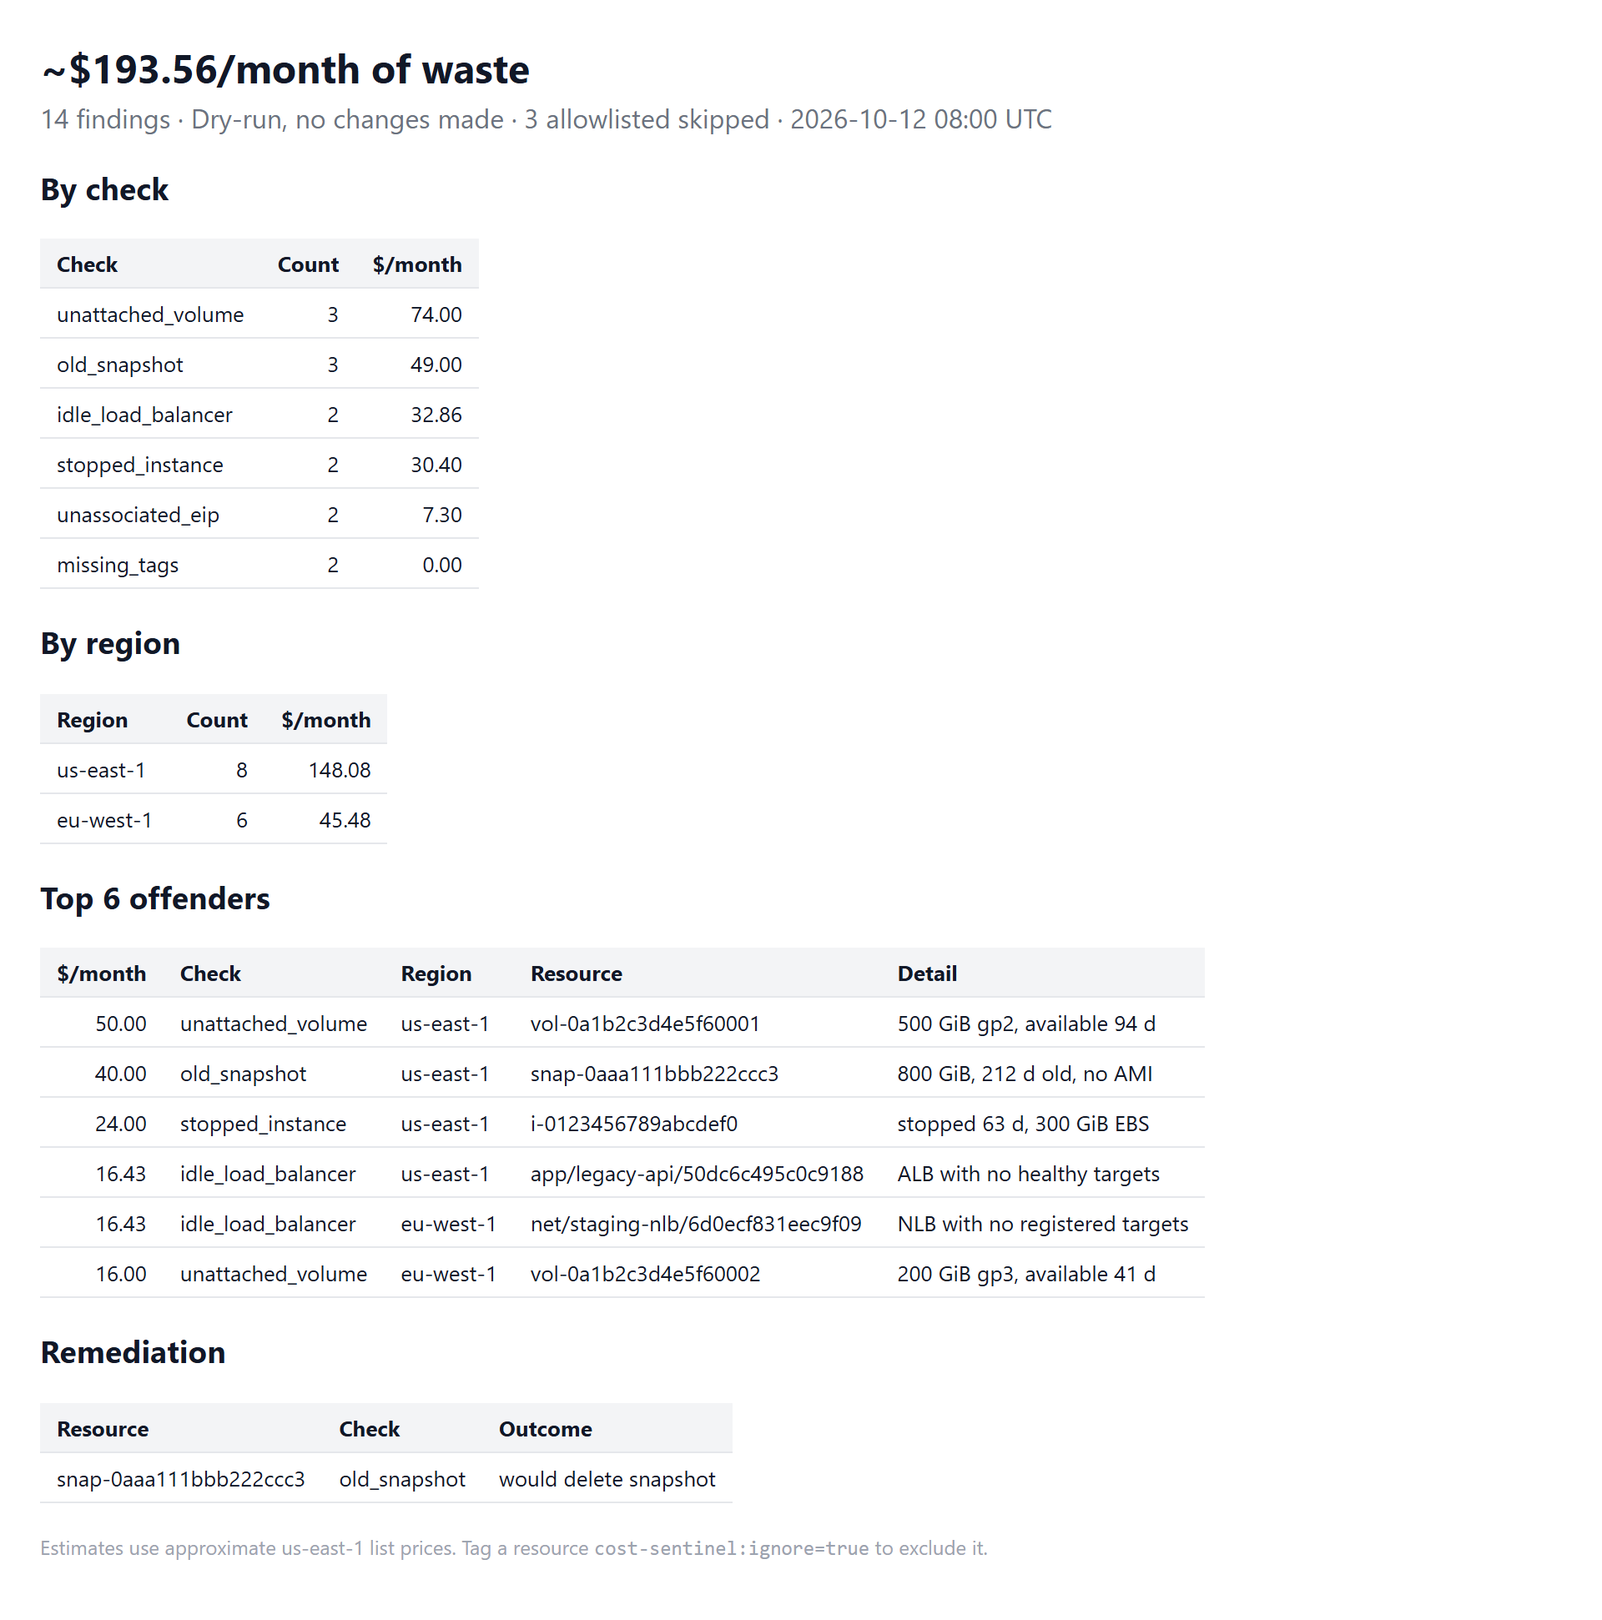
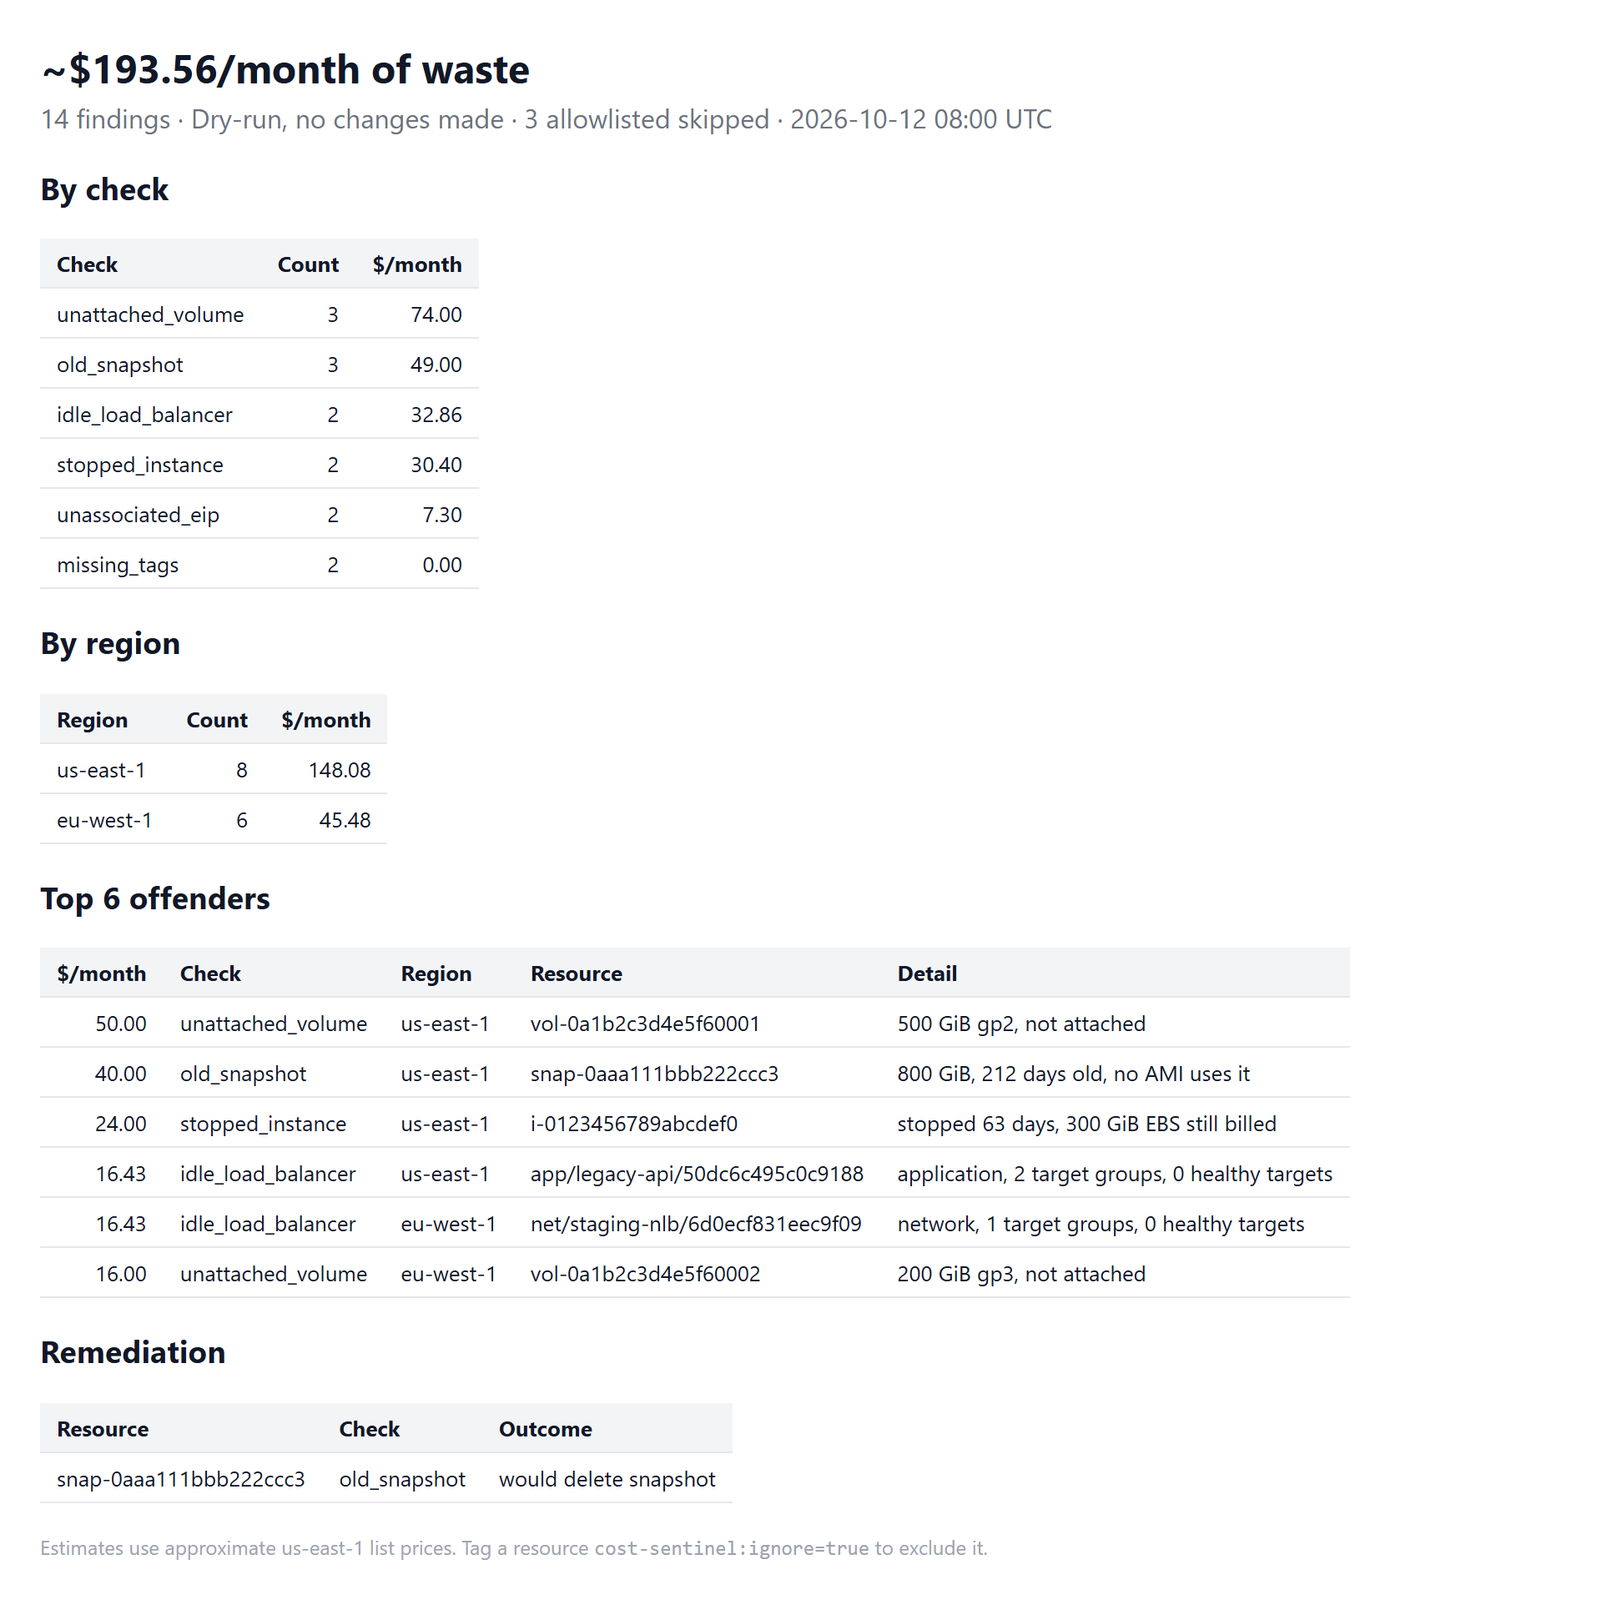
Match sample findings to the real detail strings

Changed region(s): [[0.5625, 0.6179, 0.8438, 0.8033]]

diff --git a/docs/sample/report.html b/docs/sample/report.html
@@ -1,1 +1,1 @@
-<!doctype html><meta charset="utf-8"><body style="margin:0;padding:24px;background:#fff"><div style="font-family:-apple-system,Segoe UI,Helvetica,Arial,sans-serif;color:#111827;max-width:880px"><h2 style="margin:0 0 4px">~$193.56/month of waste</h2><p style="color:#6b7280;margin:0 0 16px">14 findings &middot; Dry-run, no changes made &middot; 3 allowlisted skipped &middot; 2026-10-12 08:00 UTC</p><h3>By check</h3><table style="border-collapse:collapse;font-size:13px;margin:6px 0 18px"><tr style="background:#f3f4f6"><th style="padding:6px 10px;border-bottom:1px solid #e5e7eb;text-align:left">Check</th><th style="padding:6px 10px;border-bottom:1px solid #e5e7eb;text-align:right">Count</th><th style="padding:6px 10px;border-bottom:1px solid #e5e7eb;text-align:right">$/month</th></tr><tr><td style="padding:6px 10px;border-bottom:1px solid #e5e7eb;text-align:left">unattached_volume</td><td style="padding:6px 10px;border-bottom:1px solid #e5e7eb;text-align:right">3</td><td style="padding:6px 10px;border-bottom:1px solid #e5e7eb;text-align:right">74.00</td></tr><tr><td style="padding:6px 10px;border-bottom:1px solid #e5e7eb;text-align:left">old_snapshot</td><td style="padding:6px 10px;border-bottom:1px solid #e5e7eb;text-align:right">3</td><td style="padding:6px 10px;border-bottom:1px solid #e5e7eb;text-align:right">49.00</td></tr><tr><td style="padding:6px 10px;border-bottom:1px solid #e5e7eb;text-align:left">idle_load_balancer</td><td style="padding:6px 10px;border-bottom:1px solid #e5e7eb;text-align:right">2</td><td style="padding:6px 10px;border-bottom:1px solid #e5e7eb;text-align:right">32.86</td></tr><tr><td style="padding:6px 10px;border-bottom:1px solid #e5e7eb;text-align:left">stopped_instance</td><td style="padding:6px 10px;border-bottom:1px solid #e5e7eb;text-align:right">2</td><td style="padding:6px 10px;border-bottom:1px solid #e5e7eb;text-align:right">30.40</td></tr><tr><td style="padding:6px 10px;border-bottom:1px solid #e5e7eb;text-align:left">unassociated_eip</td><td style="padding:6px 10px;border-bottom:1px solid #e5e7eb;text-align:right">2</td><td style="padding:6px 10px;border-bottom:1px solid #e5e7eb;text-align:right">7.30</td></tr><tr><td style="padding:6px 10px;border-bottom:1px solid #e5e7eb;text-align:left">missing_tags</td><td style="padding:6px 10px;border-bottom:1px solid #e5e7eb;text-align:right">2</td><td style="padding:6px 10px;border-bottom:1px solid #e5e7eb;text-align:right">0.00</td></tr></table><h3>By region</h3><table style="border-collapse:collapse;font-size:13px;margin:6px 0 18px"><tr style="background:#f3f4f6"><th style="padding:6px 10px;border-bottom:1px solid #e5e7eb;text-align:left">Region</th><th style="padding:6px 10px;border-bottom:1px solid #e5e7eb;text-align:right">Count</th><th style="padding:6px 10px;border-bottom:1px solid #e5e7eb;text-align:right">$/month</th></tr><tr><td style="padding:6px 10px;border-bottom:1px solid #e5e7eb;text-align:left">us-east-1</td><td style="padding:6px 10px;border-bottom:1px solid #e5e7eb;text-align:right">8</td><td style="padding:6px 10px;border-bottom:1px solid #e5e7eb;text-align:right">148.08</td></tr><tr><td style="padding:6px 10px;border-bottom:1px solid #e5e7eb;text-align:left">eu-west-1</td><td style="padding:6px 10px;border-bottom:1px solid #e5e7eb;text-align:right">6</td><td style="padding:6px 10px;border-bottom:1px solid #e5e7eb;text-align:right">45.48</td></tr></table><h3>Top 6 offenders</h3><table style="border-collapse:collapse;font-size:13px;margin:6px 0 18px"><tr style="background:#f3f4f6"><th style="padding:6px 10px;border-bottom:1px solid #e5e7eb;text-align:right">$/month</th><th style="padding:6px 10px;border-bottom:1px solid #e5e7eb;text-align:left">Check</th><th style="padding:6px 10px;border-bottom:1px solid #e5e7eb;text-align:left">Region</th><th style="padding:6px 10px;border-bottom:1px solid #e5e7eb;text-align:left">Resource</th><th style="padding:6px 10px;border-bottom:1px solid #e5e7eb;text-align:left">Detail</th></tr><tr><td style="padding:6px 10px;border-bottom:1px solid #e5e7eb;text-align:right">50.00</td><td style="padding:6px 10px;border-bottom:1px solid #e5e7eb;text-align:left">unattached_volume</td><td style="padding:6px 10px;border-bottom:1px solid #e5e7eb;text-align:left">us-east-1</td><td style="padding:6px 10px;border-bottom:1px solid #e5e7eb;text-align:left">vol-0a1b2c3d4e5f60001</td><td style="padding:6px 10px;border-bottom:1px solid #e5e7eb;text-align:left">500 GiB gp2, available 94 d</td></tr><tr><td style="padding:6px 10px;border-bottom:1px solid #e5e7eb;text-align:right">40.00</td><td style="padding:6px 10px;border-bottom:1px solid #e5e7eb;text-align:left">old_snapshot</td><td style="padding:6px 10px;border-bottom:1px solid #e5e7eb;text-align:left">us-east-1</td><td style="padding:6px 10px;border-bottom:1px solid #e5e7eb;text-align:left">snap-0aaa111bbb222ccc3</td><td style="padding:6px 10px;border-bottom:1px solid #e5e7eb;text-align:left">800 GiB, 212 d old, no AMI</td></tr><tr><td style="padding:6px 10px;border-bottom:1px solid #e5e7eb;text-align:right">24.00</td><td style="padding:6px 10px;border-bottom:1px solid #e5e7eb;text-align:left">stopped_instance</td><td style="padding:6px 10px;border-bottom:1px solid #e5e7eb;text-align:left">us-east-1</td><td style="padding:6px 10px;border-bottom:1px solid #e5e7eb;text-align:left">i-0123456789abcdef0</td><td style="padding:6px 10px;border-bottom:1px solid #e5e7eb;text-align:left">stopped 63 d, 300 GiB EBS</td></tr><tr><td style="padding:6px 10px;border-bottom:1px solid #e5e7eb;text-align:right">16.43</td><td style="padding:6px 10px;border-bottom:1px solid #e5e7eb;text-align:left">idle_load_balancer</td><td style="padding:6px 10px;border-bottom:1px solid #e5e7eb;text-align:left">us-east-1</td><td style="padding:6px 10px;border-bottom:1px solid #e5e7eb;text-align:left">app/legacy-api/50dc6c495c0c9188</td><td style="padding:6px 10px;border-bottom:1px solid #e5e7eb;text-align:left">ALB with no healthy targets</td></tr><tr><td style="padding:6px 10px;border-bottom:1px solid #e5e7eb;text-align:right">16.43</td><td style="padding:6px 10px;border-bottom:1px solid #e5e7eb;text-align:left">idle_load_balancer</td><td style="padding:6px 10px;border-bottom:1px solid #e5e7eb;text-align:left">eu-west-1</td><td style="padding:6px 10px;border-bottom:1px solid #e5e7eb;text-align:left">net/staging-nlb/6d0ecf831eec9f09</td><td style="padding:6px 10px;border-bottom:1px solid #e5e7eb;text-align:left">NLB with no registered targets</td></tr><tr><td style="padding:6px 10px;border-bottom:1px solid #e5e7eb;text-align:right">16.00</td><td style="padding:6px 10px;border-bottom:1px solid #e5e7eb;text-align:left">unattached_volume</td><td style="padding:6px 10px;border-bottom:1px solid #e5e7eb;text-align:left">eu-west-1</td><td style="padding:6px 10px;border-bottom:1px solid #e5e7eb;text-align:left">vol-0a1b2c3d4e5f60002</td><td style="padding:6px 10px;border-bottom:1px solid #e5e7eb;text-align:left">200 GiB gp3, available 41 d</td></tr></table><h3>Remediation</h3><table style="border-collapse:collapse;font-size:13px;margin:6px 0 18px"><tr style="background:#f3f4f6"><th style="padding:6px 10px;border-bottom:1px solid #e5e7eb;text-align:left">Resource</th><th style="padding:6px 10px;border-bottom:1px solid #e5e7eb;text-align:left">Check</th><th style="padding:6px 10px;border-bottom:1px solid #e5e7eb;text-align:left">Outcome</th></tr><tr><td style="padding:6px 10px;border-bottom:1px solid #e5e7eb;text-align:left">snap-0aaa111bbb222ccc3</td><td style="padding:6px 10px;border-bottom:1px solid #e5e7eb;text-align:left">old_snapshot</td><td style="padding:6px 10px;border-bottom:1px solid #e5e7eb;text-align:left">would delete snapshot</td></tr></table><p style="color:#9ca3af;font-size:12px">Estimates use approximate us-east-1 list prices. Tag a resource <code>cost-sentinel:ignore=true</code> to exclude it.</p></div>
+<!doctype html><meta charset="utf-8"><body style="margin:0;padding:24px;background:#fff"><div style="font-family:-apple-system,Segoe UI,Helvetica,Arial,sans-serif;color:#111827;max-width:880px"><h2 style="margin:0 0 4px">~$193.56/month of waste</h2><p style="color:#6b7280;margin:0 0 16px">14 findings &middot; Dry-run, no changes made &middot; 3 allowlisted skipped &middot; 2026-10-12 08:00 UTC</p><h3>By check</h3><table style="border-collapse:collapse;font-size:13px;margin:6px 0 18px"><tr style="background:#f3f4f6"><th style="padding:6px 10px;border-bottom:1px solid #e5e7eb;text-align:left">Check</th><th style="padding:6px 10px;border-bottom:1px solid #e5e7eb;text-align:right">Count</th><th style="padding:6px 10px;border-bottom:1px solid #e5e7eb;text-align:right">$/month</th></tr><tr><td style="padding:6px 10px;border-bottom:1px solid #e5e7eb;text-align:left">unattached_volume</td><td style="padding:6px 10px;border-bottom:1px solid #e5e7eb;text-align:right">3</td><td style="padding:6px 10px;border-bottom:1px solid #e5e7eb;text-align:right">74.00</td></tr><tr><td style="padding:6px 10px;border-bottom:1px solid #e5e7eb;text-align:left">old_snapshot</td><td style="padding:6px 10px;border-bottom:1px solid #e5e7eb;text-align:right">3</td><td style="padding:6px 10px;border-bottom:1px solid #e5e7eb;text-align:right">49.00</td></tr><tr><td style="padding:6px 10px;border-bottom:1px solid #e5e7eb;text-align:left">idle_load_balancer</td><td style="padding:6px 10px;border-bottom:1px solid #e5e7eb;text-align:right">2</td><td style="padding:6px 10px;border-bottom:1px solid #e5e7eb;text-align:right">32.86</td></tr><tr><td style="padding:6px 10px;border-bottom:1px solid #e5e7eb;text-align:left">stopped_instance</td><td style="padding:6px 10px;border-bottom:1px solid #e5e7eb;text-align:right">2</td><td style="padding:6px 10px;border-bottom:1px solid #e5e7eb;text-align:right">30.40</td></tr><tr><td style="padding:6px 10px;border-bottom:1px solid #e5e7eb;text-align:left">unassociated_eip</td><td style="padding:6px 10px;border-bottom:1px solid #e5e7eb;text-align:right">2</td><td style="padding:6px 10px;border-bottom:1px solid #e5e7eb;text-align:right">7.30</td></tr><tr><td style="padding:6px 10px;border-bottom:1px solid #e5e7eb;text-align:left">missing_tags</td><td style="padding:6px 10px;border-bottom:1px solid #e5e7eb;text-align:right">2</td><td style="padding:6px 10px;border-bottom:1px solid #e5e7eb;text-align:right">0.00</td></tr></table><h3>By region</h3><table style="border-collapse:collapse;font-size:13px;margin:6px 0 18px"><tr style="background:#f3f4f6"><th style="padding:6px 10px;border-bottom:1px solid #e5e7eb;text-align:left">Region</th><th style="padding:6px 10px;border-bottom:1px solid #e5e7eb;text-align:right">Count</th><th style="padding:6px 10px;border-bottom:1px solid #e5e7eb;text-align:right">$/month</th></tr><tr><td style="padding:6px 10px;border-bottom:1px solid #e5e7eb;text-align:left">us-east-1</td><td style="padding:6px 10px;border-bottom:1px solid #e5e7eb;text-align:right">8</td><td style="padding:6px 10px;border-bottom:1px solid #e5e7eb;text-align:right">148.08</td></tr><tr><td style="padding:6px 10px;border-bottom:1px solid #e5e7eb;text-align:left">eu-west-1</td><td style="padding:6px 10px;border-bottom:1px solid #e5e7eb;text-align:right">6</td><td style="padding:6px 10px;border-bottom:1px solid #e5e7eb;text-align:right">45.48</td></tr></table><h3>Top 6 offenders</h3><table style="border-collapse:collapse;font-size:13px;margin:6px 0 18px"><tr style="background:#f3f4f6"><th style="padding:6px 10px;border-bottom:1px solid #e5e7eb;text-align:right">$/month</th><th style="padding:6px 10px;border-bottom:1px solid #e5e7eb;text-align:left">Check</th><th style="padding:6px 10px;border-bottom:1px solid #e5e7eb;text-align:left">Region</th><th style="padding:6px 10px;border-bottom:1px solid #e5e7eb;text-align:left">Resource</th><th style="padding:6px 10px;border-bottom:1px solid #e5e7eb;text-align:left">Detail</th></tr><tr><td style="padding:6px 10px;border-bottom:1px solid #e5e7eb;text-align:right">50.00</td><td style="padding:6px 10px;border-bottom:1px solid #e5e7eb;text-align:left">unattached_volume</td><td style="padding:6px 10px;border-bottom:1px solid #e5e7eb;text-align:left">us-east-1</td><td style="padding:6px 10px;border-bottom:1px solid #e5e7eb;text-align:left">vol-0a1b2c3d4e5f60001</td><td style="padding:6px 10px;border-bottom:1px solid #e5e7eb;text-align:left">500 GiB gp2, not attached</td></tr><tr><td style="padding:6px 10px;border-bottom:1px solid #e5e7eb;text-align:right">40.00</td><td style="padding:6px 10px;border-bottom:1px solid #e5e7eb;text-align:left">old_snapshot</td><td style="padding:6px 10px;border-bottom:1px solid #e5e7eb;text-align:left">us-east-1</td><td style="padding:6px 10px;border-bottom:1px solid #e5e7eb;text-align:left">snap-0aaa111bbb222ccc3</td><td style="padding:6px 10px;border-bottom:1px solid #e5e7eb;text-align:left">800 GiB, 212 days old, no AMI uses it</td></tr><tr><td style="padding:6px 10px;border-bottom:1px solid #e5e7eb;text-align:right">24.00</td><td style="padding:6px 10px;border-bottom:1px solid #e5e7eb;text-align:left">stopped_instance</td><td style="padding:6px 10px;border-bottom:1px solid #e5e7eb;text-align:left">us-east-1</td><td style="padding:6px 10px;border-bottom:1px solid #e5e7eb;text-align:left">i-0123456789abcdef0</td><td style="padding:6px 10px;border-bottom:1px solid #e5e7eb;text-align:left">stopped 63 days, 300 GiB EBS still billed</td></tr><tr><td style="padding:6px 10px;border-bottom:1px solid #e5e7eb;text-align:right">16.43</td><td style="padding:6px 10px;border-bottom:1px solid #e5e7eb;text-align:left">idle_load_balancer</td><td style="padding:6px 10px;border-bottom:1px solid #e5e7eb;text-align:left">us-east-1</td><td style="padding:6px 10px;border-bottom:1px solid #e5e7eb;text-align:left">app/legacy-api/50dc6c495c0c9188</td><td style="padding:6px 10px;border-bottom:1px solid #e5e7eb;text-align:left">application, 2 target groups, 0 healthy targets</td></tr><tr><td style="padding:6px 10px;border-bottom:1px solid #e5e7eb;text-align:right">16.43</td><td style="padding:6px 10px;border-bottom:1px solid #e5e7eb;text-align:left">idle_load_balancer</td><td style="padding:6px 10px;border-bottom:1px solid #e5e7eb;text-align:left">eu-west-1</td><td style="padding:6px 10px;border-bottom:1px solid #e5e7eb;text-align:left">net/staging-nlb/6d0ecf831eec9f09</td><td style="padding:6px 10px;border-bottom:1px solid #e5e7eb;text-align:left">network, 1 target groups, 0 healthy targets</td></tr><tr><td style="padding:6px 10px;border-bottom:1px solid #e5e7eb;text-align:right">16.00</td><td style="padding:6px 10px;border-bottom:1px solid #e5e7eb;text-align:left">unattached_volume</td><td style="padding:6px 10px;border-bottom:1px solid #e5e7eb;text-align:left">eu-west-1</td><td style="padding:6px 10px;border-bottom:1px solid #e5e7eb;text-align:left">vol-0a1b2c3d4e5f60002</td><td style="padding:6px 10px;border-bottom:1px solid #e5e7eb;text-align:left">200 GiB gp3, not attached</td></tr></table><h3>Remediation</h3><table style="border-collapse:collapse;font-size:13px;margin:6px 0 18px"><tr style="background:#f3f4f6"><th style="padding:6px 10px;border-bottom:1px solid #e5e7eb;text-align:left">Resource</th><th style="padding:6px 10px;border-bottom:1px solid #e5e7eb;text-align:left">Check</th><th style="padding:6px 10px;border-bottom:1px solid #e5e7eb;text-align:left">Outcome</th></tr><tr><td style="padding:6px 10px;border-bottom:1px solid #e5e7eb;text-align:left">snap-0aaa111bbb222ccc3</td><td style="padding:6px 10px;border-bottom:1px solid #e5e7eb;text-align:left">old_snapshot</td><td style="padding:6px 10px;border-bottom:1px solid #e5e7eb;text-align:left">would delete snapshot</td></tr></table><p style="color:#9ca3af;font-size:12px">Estimates use approximate us-east-1 list prices. Tag a resource <code>cost-sentinel:ignore=true</code> to exclude it.</p></div>

diff --git a/docs/sample/gen_sample.py b/docs/sample/gen_sample.py
@@ -17,42 +17,72 @@ findings = [
         "unattached_volume",
         "us-east-1",
         "vol-0a1b2c3d4e5f60001",
-        "500 GiB gp2, available 94 d",
+        "500 GiB gp2, not attached",
         50.0,
     ),
     F(
         "unattached_volume",
         "eu-west-1",
         "vol-0a1b2c3d4e5f60002",
-        "200 GiB gp3, available 41 d",
+        "200 GiB gp3, not attached",
         16.0,
     ),
     F(
         "unattached_volume",
         "us-east-1",
         "vol-0a1b2c3d4e5f60003",
-        "100 GiB gp3, available 12 d",
+        "100 GiB gp3, not attached",
         8.0,
     ),
     F(
         "idle_load_balancer",
         "us-east-1",
         "app/legacy-api/50dc6c495c0c9188",
-        "ALB with no healthy targets",
+        "application, 2 target groups, 0 healthy targets",
         16.43,
     ),
     F(
         "idle_load_balancer",
         "eu-west-1",
         "net/staging-nlb/6d0ecf831eec9f09",
-        "NLB with no registered targets",
+        "network, 1 target groups, 0 healthy targets",
         16.43,
     ),
-    F("stopped_instance", "us-east-1", "i-0123456789abcdef0", "stopped 63 d, 300 GiB EBS", 24.0),
-    F("stopped_instance", "eu-west-1", "i-0fedcba9876543210", "stopped 35 d, 80 GiB EBS", 6.4),
-    F("old_snapshot", "us-east-1", "snap-0aaa111bbb222ccc3", "800 GiB, 212 d old, no AMI", 40.0),
-    F("old_snapshot", "us-east-1", "snap-0ddd444eee555fff6", "120 GiB, 131 d old, no AMI", 6.0),
-    F("old_snapshot", "eu-west-1", "snap-0777888999aaabbb0", "60 GiB, 97 d old, no AMI", 3.0),
+    F(
+        "stopped_instance",
+        "us-east-1",
+        "i-0123456789abcdef0",
+        "stopped 63 days, 300 GiB EBS still billed",
+        24.0,
+    ),
+    F(
+        "stopped_instance",
+        "eu-west-1",
+        "i-0fedcba9876543210",
+        "stopped 35 days, 80 GiB EBS still billed",
+        6.4,
+    ),
+    F(
+        "old_snapshot",
+        "us-east-1",
+        "snap-0aaa111bbb222ccc3",
+        "800 GiB, 212 days old, no AMI uses it",
+        40.0,
+    ),
+    F(
+        "old_snapshot",
+        "us-east-1",
+        "snap-0ddd444eee555fff6",
+        "120 GiB, 131 days old, no AMI uses it",
+        6.0,
+    ),
+    F(
+        "old_snapshot",
+        "eu-west-1",
+        "snap-0777888999aaabbb0",
+        "60 GiB, 97 days old, no AMI uses it",
+        3.0,
+    ),
     F(
         "unassociated_eip",
         "us-east-1",
@@ -70,15 +100,15 @@ findings = [
     F(
         "missing_tags",
         "us-east-1",
-        "arn:aws:s3:::scratch-exports",
-        "missing: owner, cost-center",
+        "volume/vol-0a1b2c3d4e5f60009",
+        "missing owner, cost-center",
         0.0,
     ),
     F(
         "missing_tags",
         "eu-west-1",
-        "arn:aws:sqs:eu-west-1:111111111111:tmp-jobs",
-        "missing: owner",
+        "instance/i-0a1b2c3d4e5f60010",
+        "missing owner",
         0.0,
     ),
 ]
